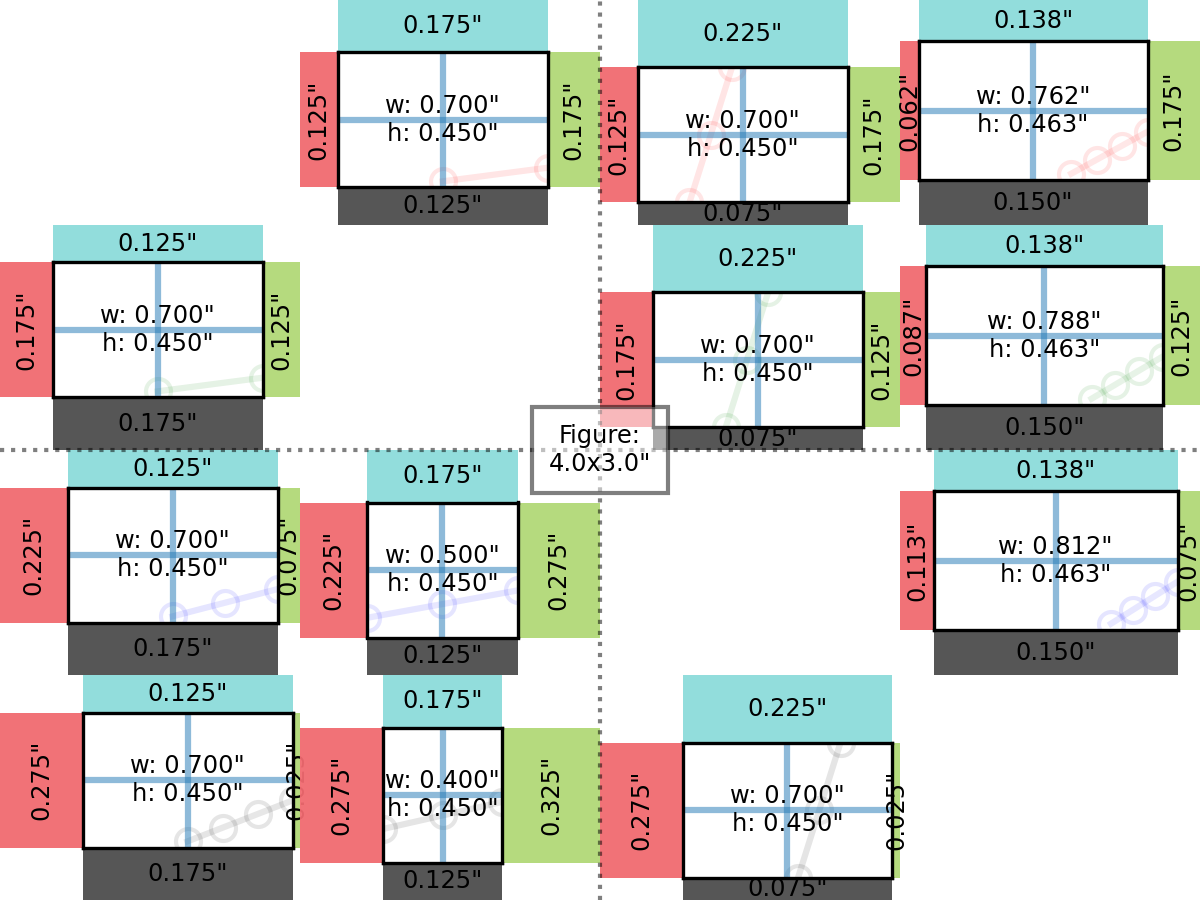
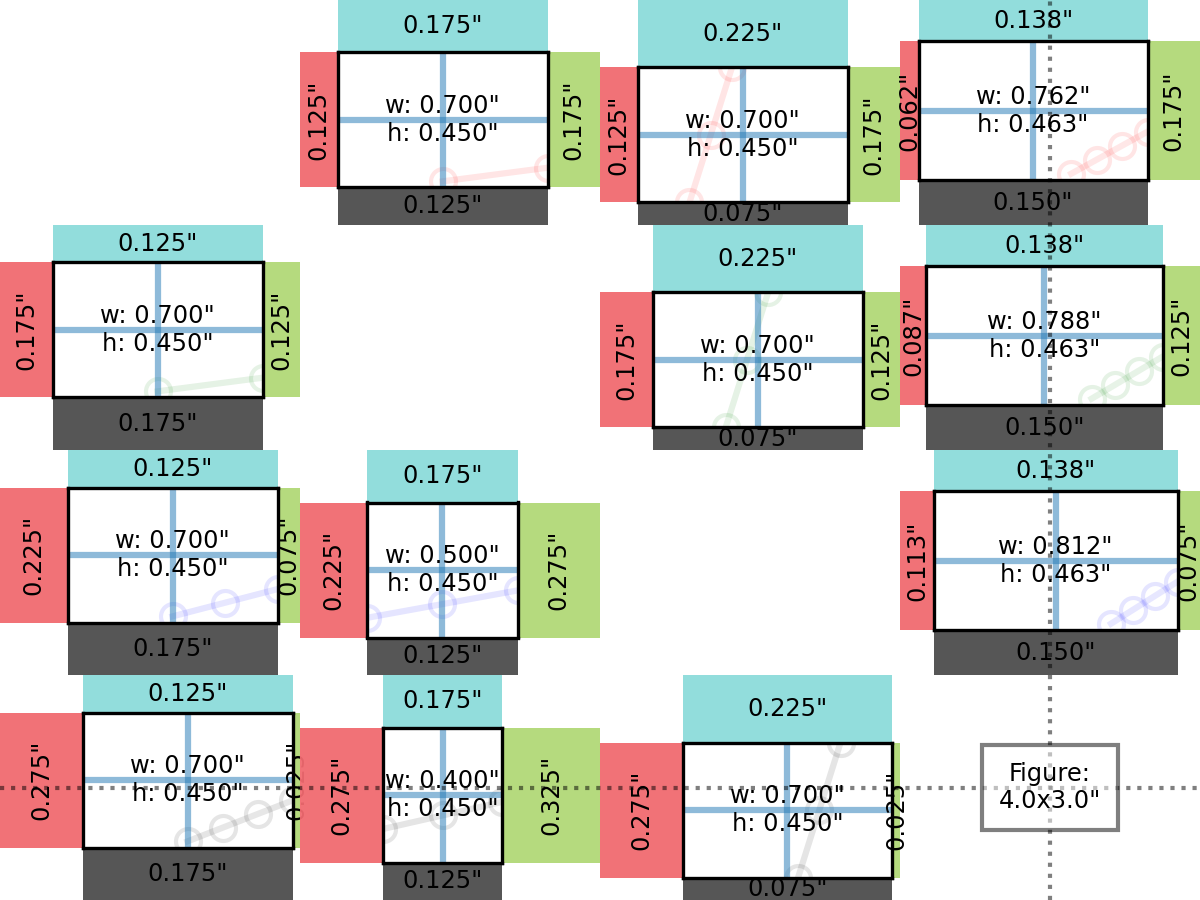
add visualization for alignment

diff --git a/matplotlib_exact/alignment.py b/matplotlib_exact/alignment.py
@@ -1,6 +1,7 @@
 import matplotlib.pyplot
 import numpy
 from .axes import Axes
+from matplotlib.lines import Line2D
 
 class Alignment:
 
@@ -109,6 +110,43 @@ class Alignment:
 
   def figure_size(self):
     return self.figure_width(), self.figure_height()
+
+
+  def annotate_rect(self, x=0.5, y=0.5, ls=':', lw=1, color='k', alpha=0.5):
+    fig = self.figure()
+    # | 
+    fig.add_artist(Line2D(
+      [x, x], 
+      [0.0, 1.0], 
+      ls=ls, 
+      lw=lw, 
+      color=color,
+      alpha=alpha,
+    ))
+    fig.add_artist(Line2D(
+      [0.0, 1.0], 
+      [y, y], 
+      ls=ls, 
+      lw=lw, 
+      color=color, 
+      alpha=alpha)
+    )
+
+  def annotate_text(self, x=0.5, y=0.5, fontsize='xx-small', bgcolor='white', bgalpha=0.5):
+    fig = self.figure()
+    fig_w, fig_h = fig.get_size_inches()
+    text = f'Figure:\n{fig_w:.1f}x{fig_h:.1f}"'
+    fig.text(
+      x,
+      y, 
+      text,
+      ha='center', 
+      va='center', 
+      fontsize=fontsize, 
+      bbox=dict(
+        fc='white', 
+        alpha=0.5)
+      )  
 
   def __repr__(self):
     return f'Alignment({self.array()})'

diff --git a/examples.py b/examples.py
@@ -112,7 +112,7 @@ for r, row in enumerate(alignment):
 			ax.set_xlim(r - c, r + c)
 			a.annotate_rect()
 			a.annotate_text()
-			
+
 		if c == 2 and r != 2:
 			ax = a.matplotlib()	
 			ax.set_xticks([])
@@ -132,13 +132,9 @@ for r, row in enumerate(alignment):
 			a.annotate_text()
 
 # Add lines to figure
-from matplotlib.lines import Line2D
-
-fig = alignment.figure()
-fig.add_artist(Line2D([0.5, 0.5], [0.0, 1.0], ls=':', lw=1, color='k', alpha=0.5))
-fig.add_artist(Line2D([0.0, 1.0], [0.5, 0.5], ls=':', lw=1, color='k', alpha=0.5))
-fig_w, fig_h = fig.get_size_inches()
-fig.text(0.5, 0.5, f'Figure:\n{fig_w:.1f}x{fig_h:.1f}"', ha='center', va='center', fontsize='xx-small', bbox=dict(fc='white', alpha=0.5))
+alignment.annotate_rect(x=7/8, y=1/8)
+alignment.annotate_text(x=7/8, y=1/8)
 
 # Save
+fig = alignment.figure()
 fig.savefig('examples/example_3.png', dpi=300)
